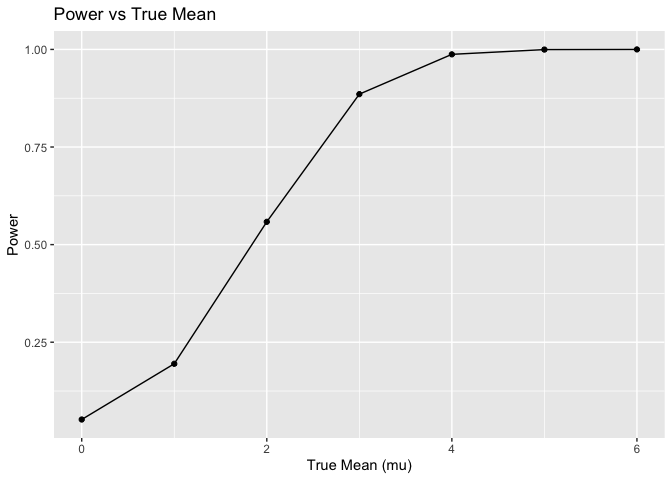
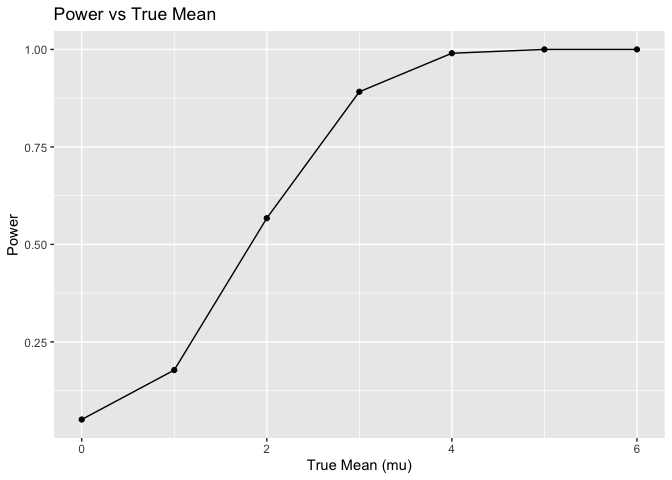
comments

diff --git a/p8105_hw5_lt2949.md b/p8105_hw5_lt2949.md
@@ -248,6 +248,11 @@ ggplot(results, aes(x = mu, y = power)) +
 
 ![](p8105_hw5_lt2949_files/figure-gfm/unnamed-chunk-3-1.png)<!-- -->
 
+The plot shows test power, the chance of rejecting a false null
+hypothesis, rising with an increasing true mean, beginning from nearly
+zero and approaching full power as the effect size grows, highlighting a
+proportional link between effect size and test power.
+
 ``` r
 # Plot the average estimate of mu_hat
 ggplot(results, aes(x = mu, y = mean_estimate)) +
@@ -256,7 +261,13 @@ ggplot(results, aes(x = mu, y = mean_estimate)) +
   labs(title = "Average Estimate of mu_hat vs True Mean", x = "True Mean (mu)", y = "Average Estimate (mu_hat)")
 ```
 
-![](p8105_hw5_lt2949_files/figure-gfm/unnamed-chunk-3-2.png)<!-- -->
+![](p8105_hw5_lt2949_files/figure-gfm/unnamed-chunk-4-1.png)<!-- -->
+
+The second graph displays a black line depicting the average estimate of
+the sample mean mu hat as it corresponds to the true mean. The linear
+relationship, with a slope around one, suggests that the sample mean
+reliably reflects the true mean; it proportionately rises as the true
+mean escalates, pointing to its unbiased nature in estimation.
 
 ``` r
 # Overlay average estimate of mu_hat when null is rejected
@@ -268,4 +279,13 @@ ggplot(results, aes(x = mu)) +
   labs(title = "Average Estimate of mu_hat vs True Mean", x = "True Mean (mu)", y = "Average Estimate (mu_hat)")
 ```
 
-![](p8105_hw5_lt2949_files/figure-gfm/unnamed-chunk-3-3.png)<!-- -->
+![](p8105_hw5_lt2949_files/figure-gfm/unnamed-chunk-5-1.png)<!-- -->
+
+The third visualization introduces a red line which traces the average
+estimate of mu hat in instances where the null hypothesis is rejected,
+superimposed on the earlier plot. This line mostly mirrors the initial
+one, yet it shows minor divergences. The proximity of these two lines
+indicates that the sample mean continues to be a reliable estimator of
+the true mean after the null hypothesis is declined, although minor
+variations may arise due to the diversity among samples that lead to
+null hypothesis rejection.
